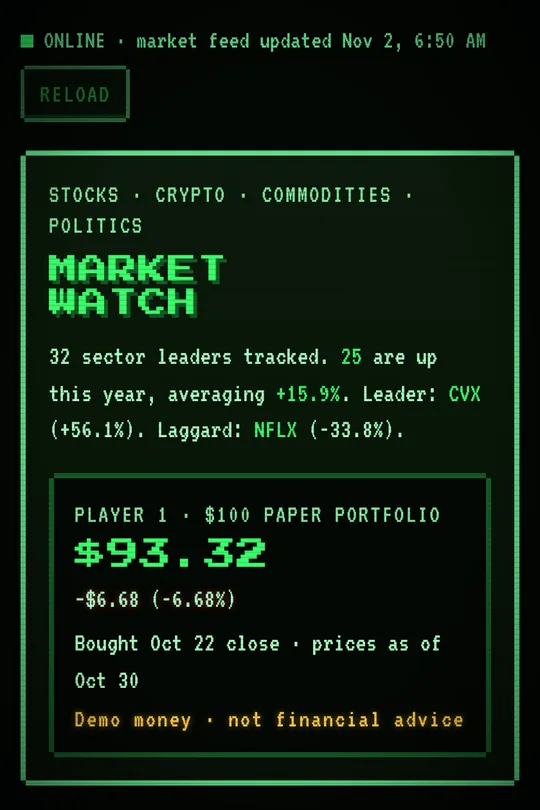
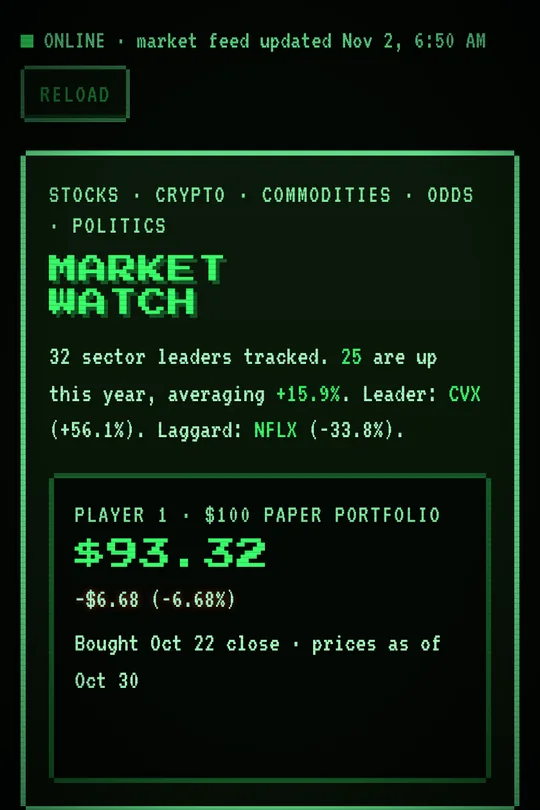
Market Watch card: no demo label; mention Kalshi and sportsbook odds; new cover
Claude-Session: https://claude.ai/code/session_01T4Ncn2a53aA1ppsRCuEJwC

diff --git a/index.html b/index.html
@@ -944,9 +944,9 @@
     <ul class="library-grid">
       <li class="library-book">
         <div class="library-cover"><img src="app-market-watch.webp" alt="Market Watch app screenshot: retro green-on-black market dashboard" loading="lazy"></div>
-        <p class="library-format">Web App · Retro Dashboard</p>
+        <p class="library-format">Web App · Markets &amp; Odds</p>
         <h3 class="library-title">Market Watch</h3>
-        <p class="library-sub">Stocks, crypto, commodities and Congress trades in big, easy-to-read 8-bit style. Demo only, not financial advice.</p>
+        <p class="library-sub">Stocks, crypto, Kalshi prediction markets, sportsbook odds and Congress trades in big, easy-to-read 8-bit style. Not financial advice.</p>
         <a class="library-buy" href="https://marcosaurelious.github.io/market-watch/" target="_blank" rel="noopener">Open the App →</a>
       </li>
 
